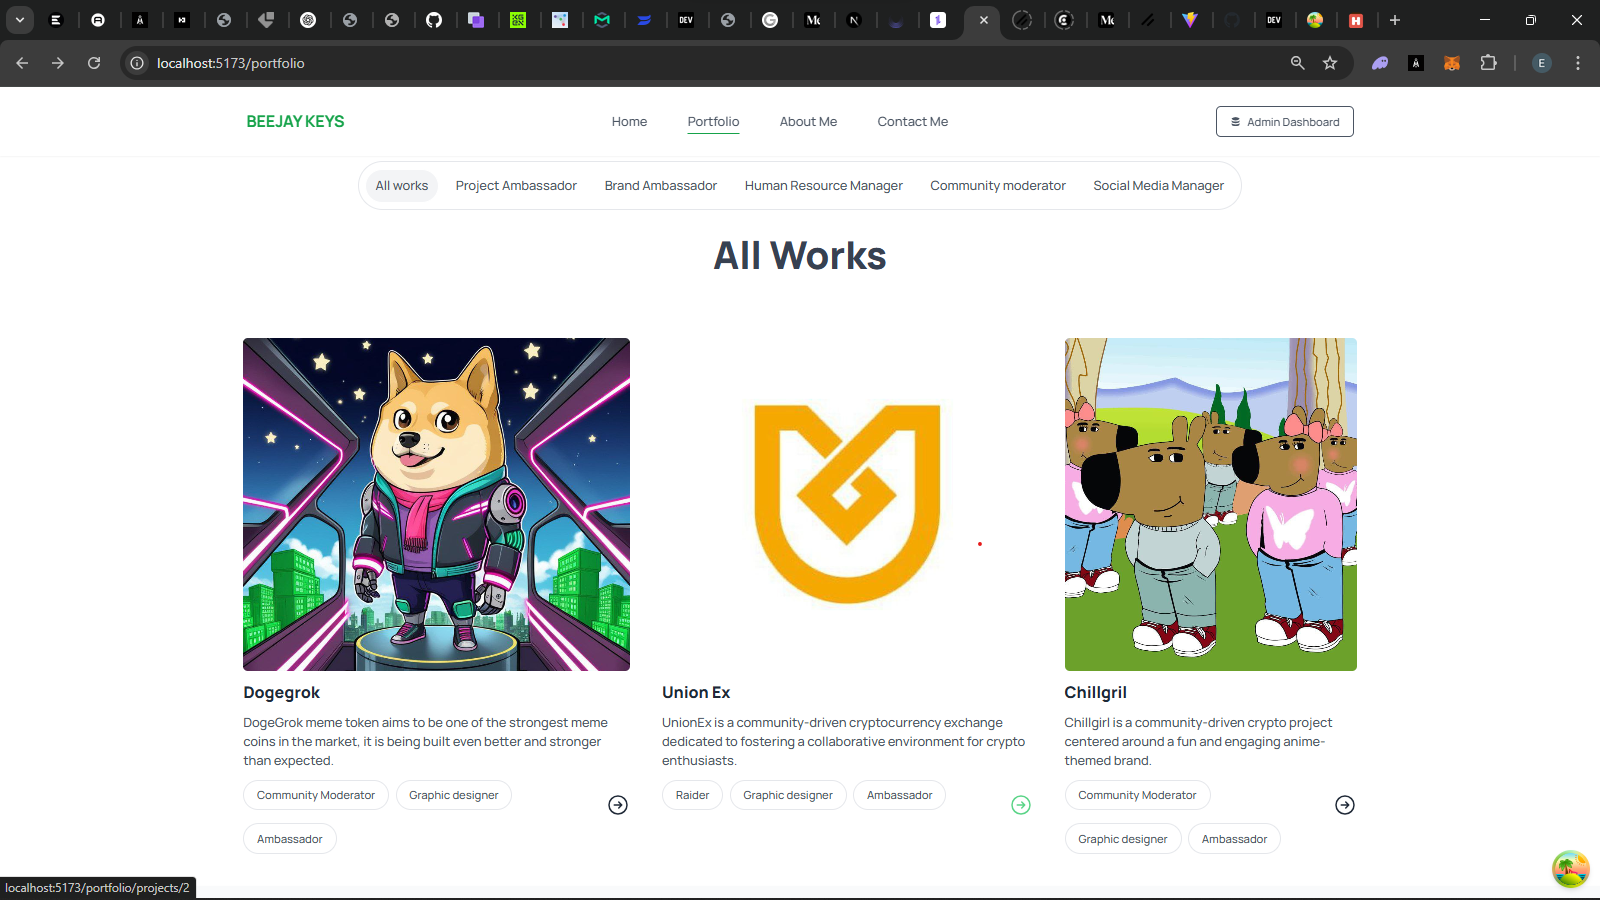
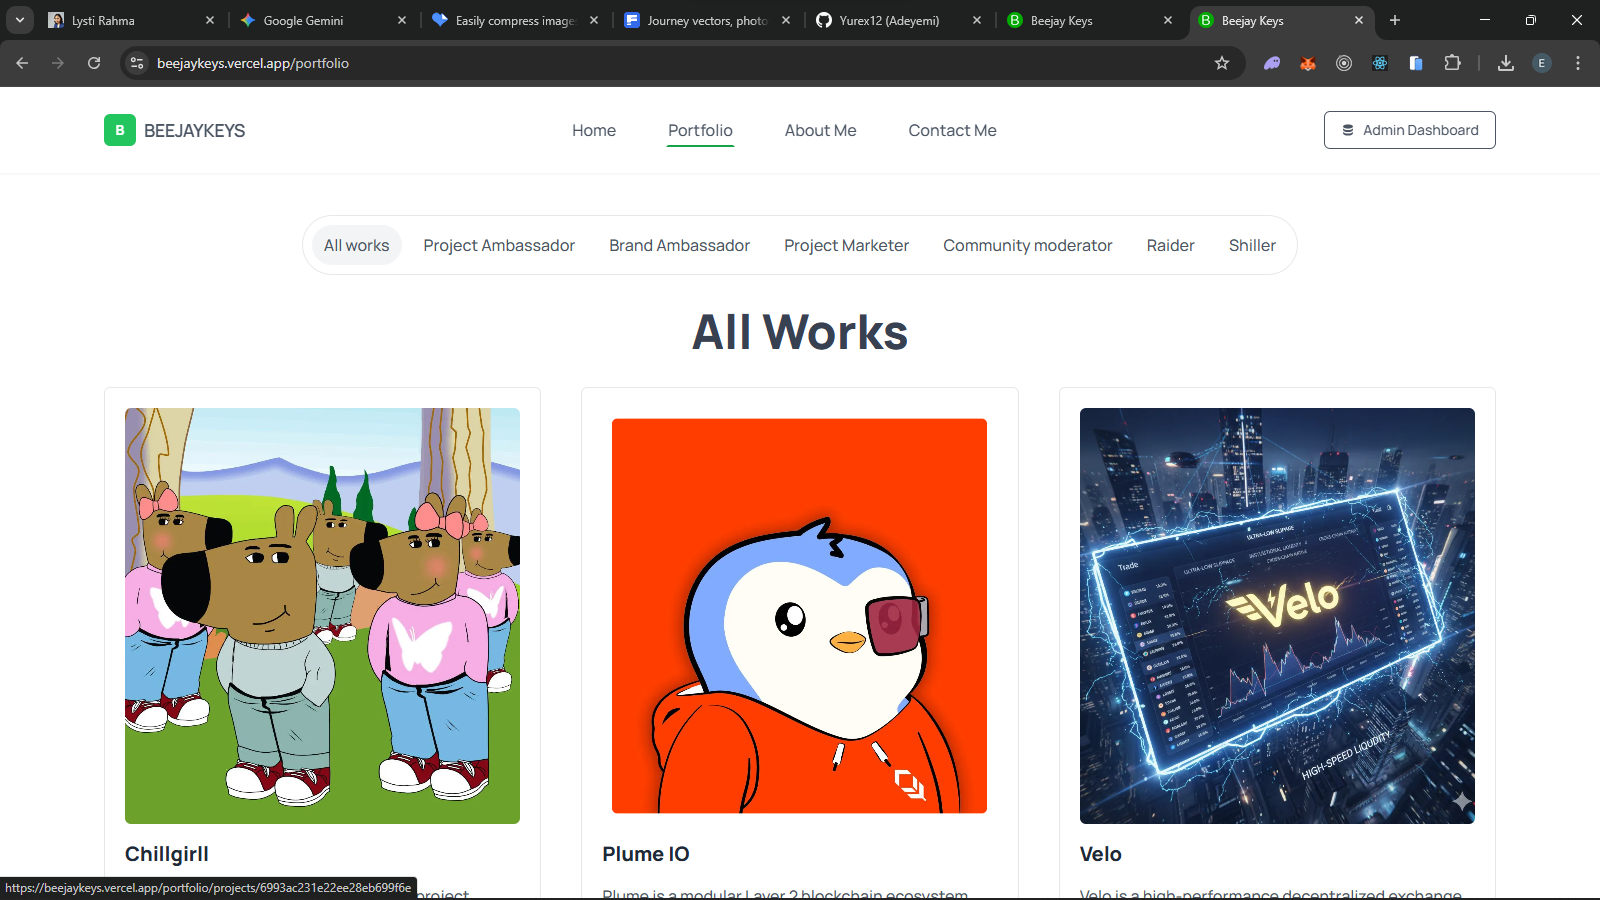
edit projects

diff --git a/src/constants/index.ts b/src/constants/index.ts
@@ -54,6 +54,16 @@ export const projects: Project[] = [
     github: "https://github.com/yourname/yurexpage",
     live: "https://example.com/yurexpage",
   },
+  // {
+  //   id: "p1",
+  //   title: "Yurexpage",
+  //   description:
+  //     "A lightweight social feed with realtime-like UI, post reactions, and responsive layout.",
+  //   image: "/beejaykeys.png",
+  //   tech: ["Next.js", "TypeScript", "Tailwind", "PostgreSQL", "Prisma"],
+  //   github: "https://github.com/yourname/yurexpage",
+  //   live: "https://example.com/yurexpage",
+  // },
 
   {
     id: "p2",
@@ -61,13 +71,29 @@ export const projects: Project[] = [
     description:
       "A full-stack e-commerce site with an admin dashboard to manage products, categories, and orders.",
     image: "/nexura.png",
-    tech: ["React", "TypeScript", "Tailwind", "PostgreSQL", "Prisma"],
+    tech: [
+      "React",
+      "TypeScript",
+      "Tailwind",
+      "Express",
+      "PostgreSQL",
+      "Prisma",
+    ],
     github: "https://github.com/Yurex12/yurexstore-ecommerce",
     live: "https://nexurastore.vercel.app/",
   },
-
   {
     id: "p3",
+    title: "BEEJAYKEYS",
+    description:
+      "A full-stack portfolio with a custom admin panel to manage and update content in real-time.",
+    image: "/beejaykeys.png",
+    tech: ["React", "TypeScript", "Tailwind", "Express", "MongoDB", "Mongoose"],
+    github: "https://github.com/Yurex12/beejaykeys",
+    live: "https://beejaykeys.vercel.app",
+  },
+  {
+    id: "p4",
     title: "FreshFarm",
     description:
       "A responsive website for a local farm featuring a Home, About, contact page.",
